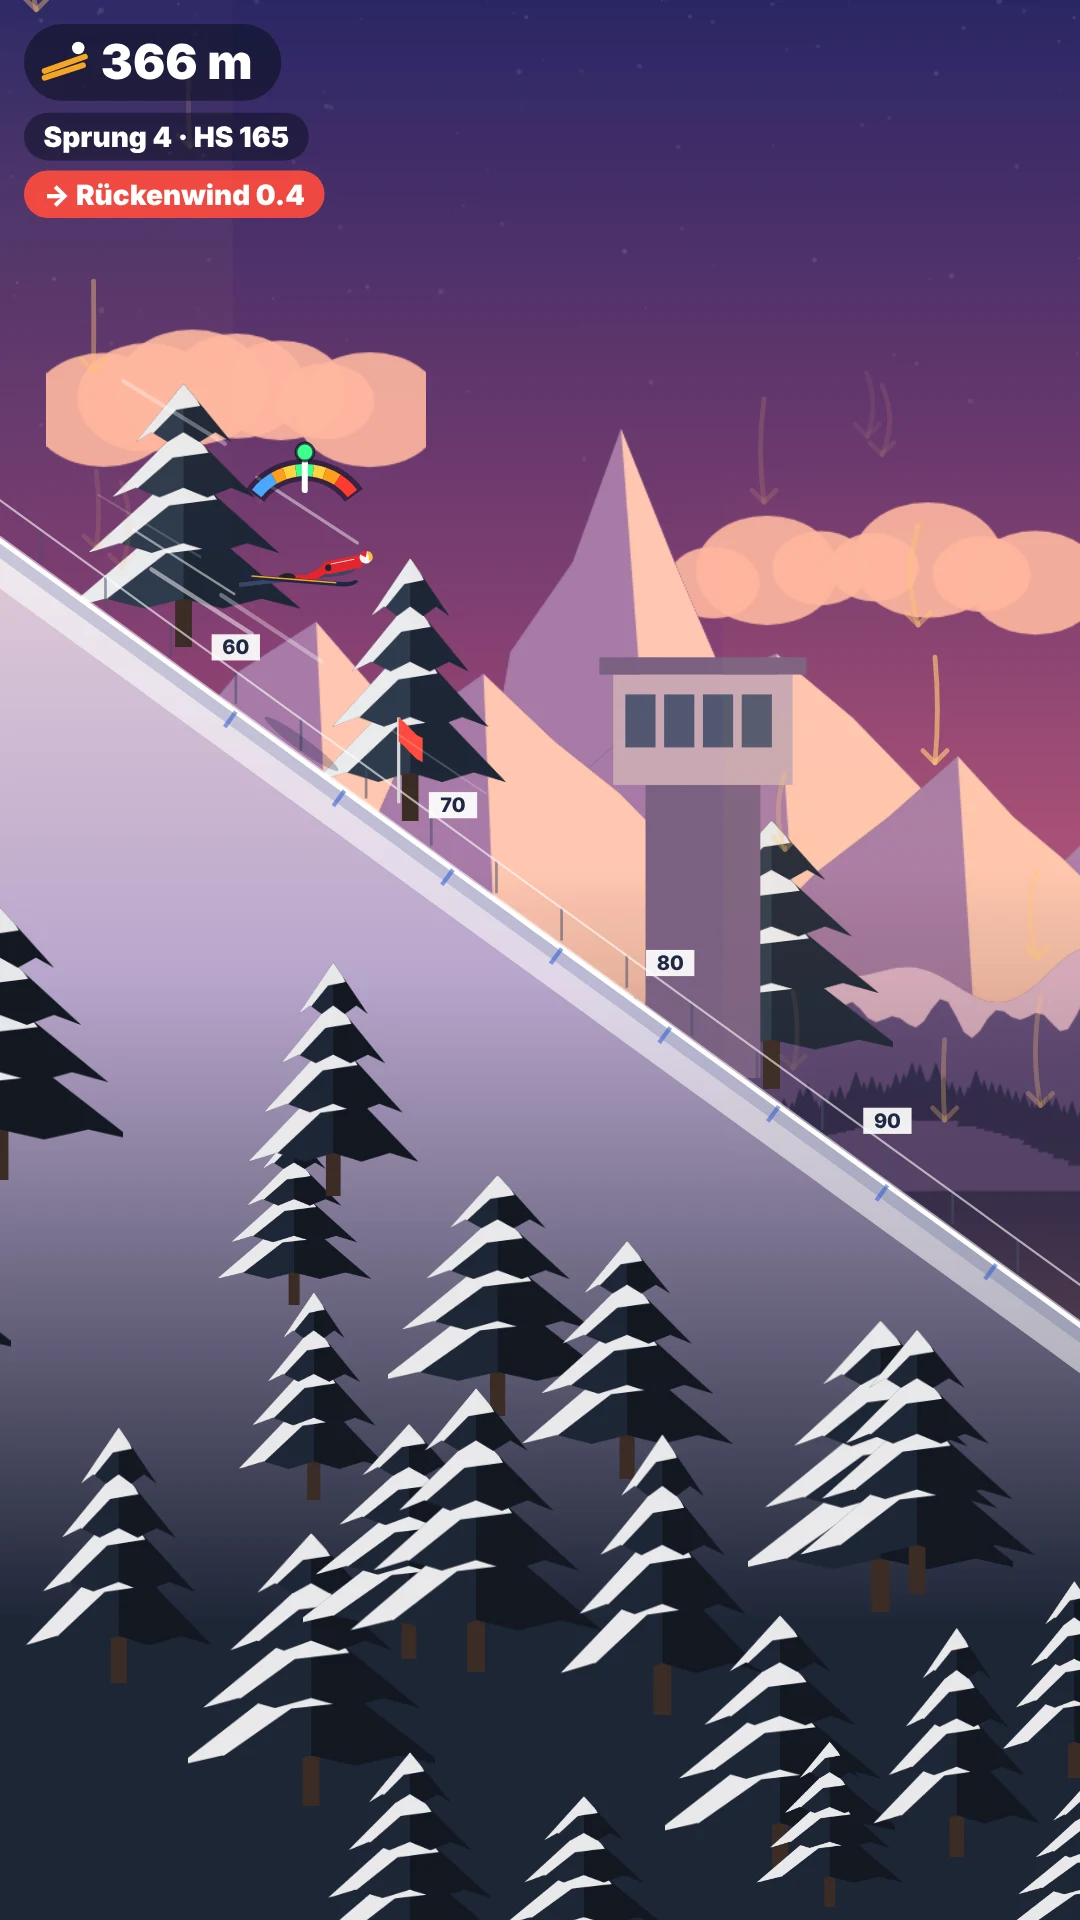
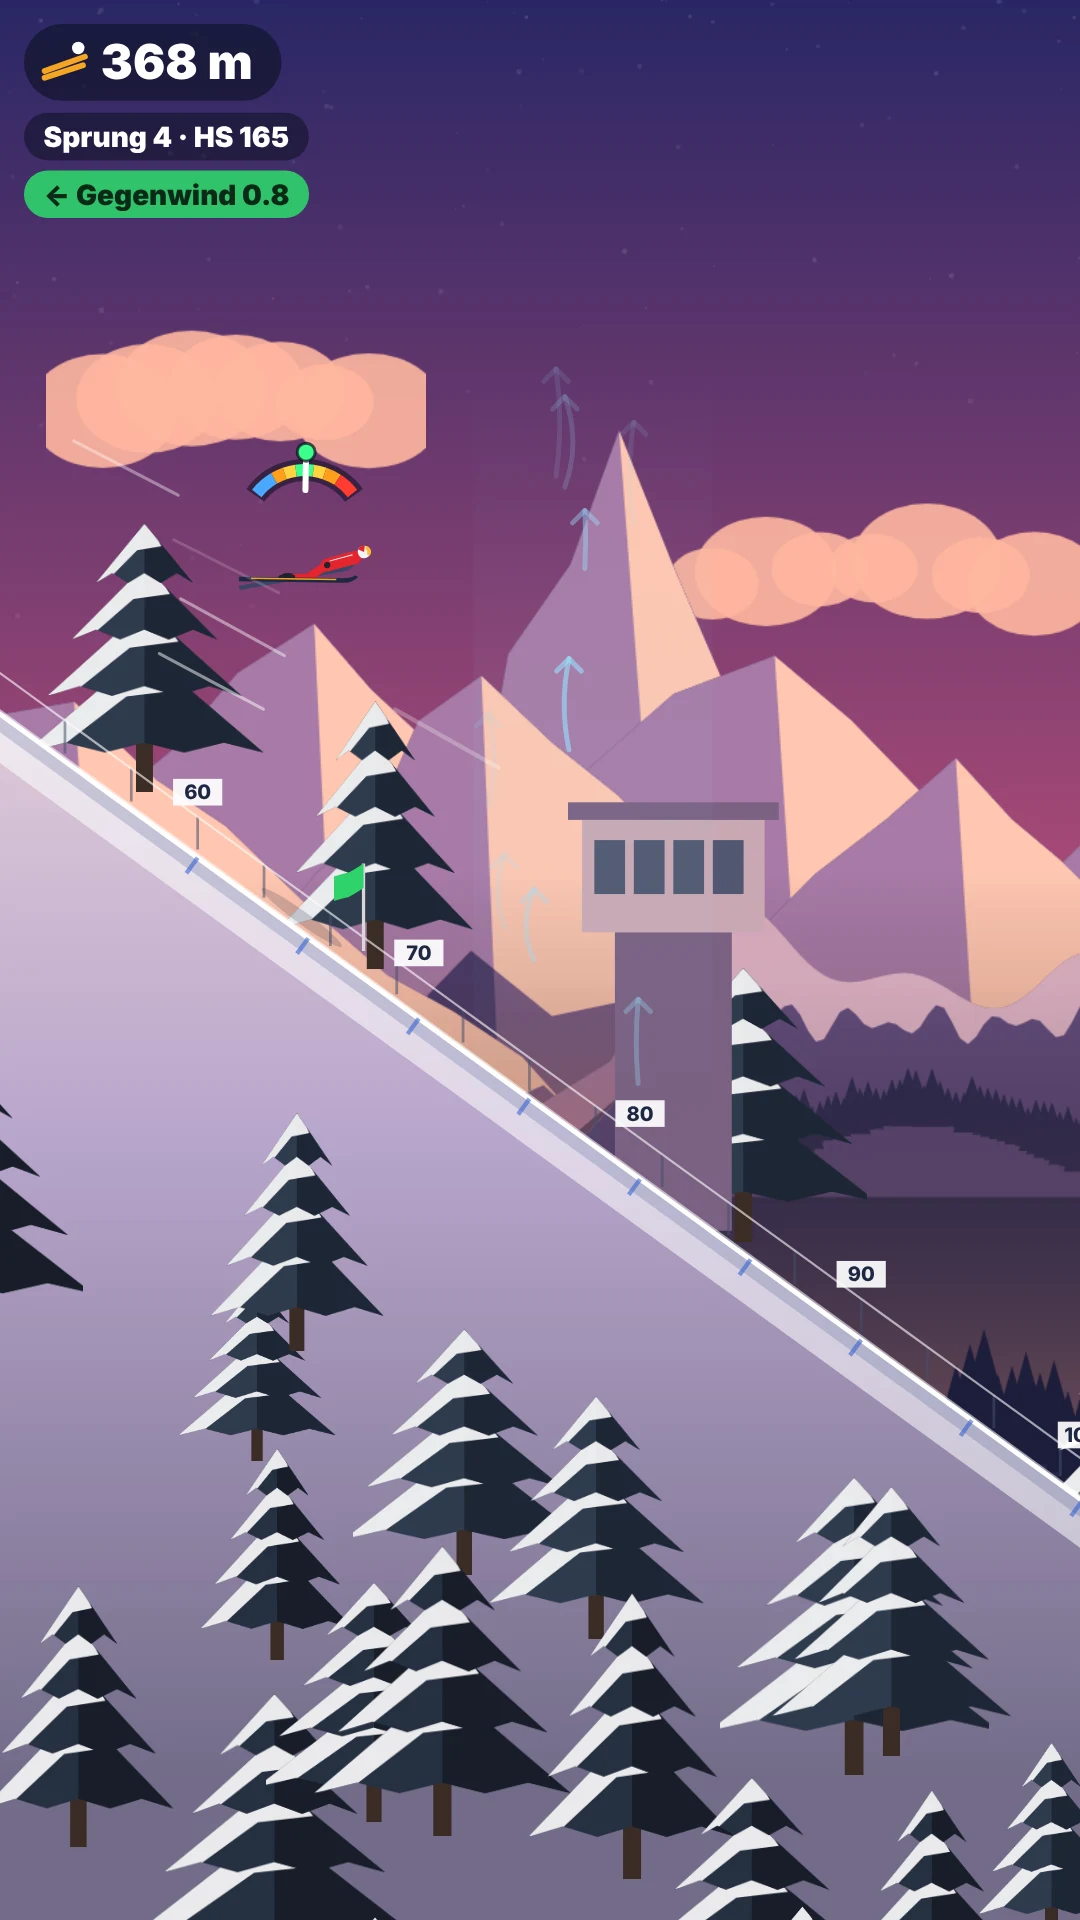
Skispringen: Feinschliff Anzeige, Wald am Hang, Zuschauen
Strömungsabriss wird gemeldet, der Bogen glüht im Gefahrenbereich, im
Anlauf steht das Tempo. Wald an der Flanke von Hang und Gelände, Turm
unter der Starthütte, Schneefall unter Flutlicht. Beim Zuschauen zeigt
die Anzeige die aufgezeichnete Zahl des Sprungs.

Claude-Session: https://claude.ai/code/session_01Psf4iZAqeQEYw64c7esvQu

diff --git a/skispringen.js b/skispringen.js
@@ -609,7 +609,7 @@
       fern: { fels: "#8b84aa", schatten: "#5f5b86", schnee: "#ffeae2", schneeSchatten: "#b7a7cd", dunst: "rgba(253, 214, 186, 0.55)" },
       mitte: { grund: "#5d6d8e", hell: "#7383a3", schnee: "#e7e2ef", wald: "#3f5468" },
       nah: { grund: "#2f4a4c", wald: "#24403f", licht: "#ffd38a" },
-      hang: ["#fff8f4", "#cfd2ec"], baum: ["#3b5b4f", "#26413a"], bau: ["#c9c3d6", "#8e88a6"], gelaende: "#e7e3f1",
+      hang: ["#fff8f4", "#cfd2ec"], baum: ["#3b5b4f", "#26413a"], bau: ["#c9c3d6", "#8e88a6"],
     },
     {
       name: "mittag",
@@ -620,7 +620,7 @@
       fern: { fels: "#7d8ea8", schatten: "#5a6a88", schnee: "#ffffff", schneeSchatten: "#bdd0ea", dunst: "rgba(214, 233, 255, 0.55)" },
       mitte: { grund: "#4f7088", hell: "#6a8ca0", schnee: "#f2f7fc", wald: "#2f5a4f" },
       nah: { grund: "#2e5a44", wald: "#1f4a37", licht: "#ffd38a" },
-      hang: ["#ffffff", "#c7d9f0"], baum: ["#2f6248", "#1d4634"], bau: ["#d6dbe3", "#8f9bab"], gelaende: "#eef4fb",
+      hang: ["#ffffff", "#c7d9f0"], baum: ["#2f6248", "#1d4634"], bau: ["#d6dbe3", "#8f9bab"],
     },
     {
       name: "nachmittag",
@@ -631,7 +631,7 @@
       fern: { fels: "#8a8aa4", schatten: "#5d6182", schnee: "#fff9ee", schneeSchatten: "#c5c7de", dunst: "rgba(250, 232, 200, 0.55)" },
       mitte: { grund: "#5a6f86", hell: "#7a8ea0", schnee: "#f5f1ea", wald: "#355749" },
       nah: { grund: "#33533f", wald: "#244533", licht: "#ffd38a" },
-      hang: ["#fffaf2", "#cbd4ea"], baum: ["#335c45", "#203f30"], bau: ["#d8d4cf", "#958f8c"], gelaende: "#f1eee8",
+      hang: ["#fffaf2", "#cbd4ea"], baum: ["#335c45", "#203f30"], bau: ["#d8d4cf", "#958f8c"],
     },
     {
       name: "abendrot",
@@ -643,7 +643,7 @@
       fern: { fels: "#7a5a86", schatten: "#4a3a6a", schnee: "#ffc6b0", schneeSchatten: "#a77aa6", dunst: "rgba(255, 160, 130, 0.45)" },
       mitte: { grund: "#4c3f6c", hell: "#6a4f7c", schnee: "#e6b9c6", wald: "#2e2a4e" },
       nah: { grund: "#28284a", wald: "#1c1d3a", licht: "#ffcf7a" },
-      hang: ["#ffe9e2", "#b9a6cc"], baum: ["#2e3a4c", "#1e2636"], bau: ["#c9a8b4", "#7a6082"], gelaende: "#e6d2dc",
+      hang: ["#ffe9e2", "#b9a6cc"], baum: ["#2e3a4c", "#1e2636"], bau: ["#c9a8b4", "#7a6082"],
     },
     {
       name: "daemmerung",
@@ -654,7 +654,7 @@
       fern: { fels: "#3f3c70", schatten: "#2a2852", schnee: "#a9a5d8", schneeSchatten: "#6e6aa6", dunst: "rgba(150, 110, 170, 0.4)" },
       mitte: { grund: "#25285a", hell: "#30336a", schnee: "#8d8cc2", wald: "#181c40" },
       nah: { grund: "#141a38", wald: "#0e1430", licht: "#ffcf7a" },
-      hang: ["#dfe5fb", "#8c93c4"], baum: ["#1d2a40", "#121c2e"], bau: ["#8e93b8", "#4e5480"], gelaende: "#a7acd2",
+      hang: ["#dfe5fb", "#8c93c4"], baum: ["#1d2a40", "#121c2e"], bau: ["#8e93b8", "#4e5480"],
       flutlicht: true,
     },
     {
@@ -666,7 +666,7 @@
       fern: { fels: "#1f2550", schatten: "#151a3c", schnee: "#7c86b8", schneeSchatten: "#4b5488", dunst: "rgba(60, 80, 150, 0.35)" },
       mitte: { grund: "#141a3c", hell: "#1b2248", schnee: "#525c90", wald: "#0e1430" },
       nah: { grund: "#0b1028", wald: "#070b1e", licht: "#ffcf7a" },
-      hang: ["#e4ebff", "#7d89bd"], baum: ["#14203a", "#0b1426"], bau: ["#7a82aa", "#3d4470"], gelaende: "#6f78a6",
+      hang: ["#e4ebff", "#7d89bd"], baum: ["#14203a", "#0b1426"], bau: ["#7a82aa", "#3d4470"],
       flutlicht: true,
     },
   ];
@@ -1102,11 +1102,19 @@
     const bis = sichtBis() + 20;
     const tief = bildY(sch.ende.y - 400);
 
+    // Hang und Gelände teilen einen Verlauf – an der Kante keine Naht.
+    const h = sch.hang;
+    const ds = h[1].s - h[0].s;
+    const schritt = Math.max(1, Math.floor(2.5 / (ds * z)));
+    const i0 = clamp(Math.floor(hangBei(sch, Math.max(0, von)).s / ds) - 1, 0, h.length - 2) || 0;
+    const i1 = clamp(Math.ceil(hangBei(sch, Math.max(0, bis)).s / ds) + 1, i0 + 1, h.length - 1) || h.length - 1;
+    const oberkante = Math.min(bildY(h[i0].y), bildY(h[i1].y));
+    const verlauf = g.createLinearGradient(0, oberkante, 0, oberkante + Math.max(80, view.cssH * 0.75));
+    verlauf.addColorStop(0, T.hang[0]);
+    verlauf.addColorStop(0.55, T.hang[1]);
+    verlauf.addColorStop(1, mische(T.hang[1], T.baum[1], 0.45));
     // Das Gelände hinter und unter dem Anlauf: ein verschneiter Waldhang.
-    const gel = g.createLinearGradient(0, bildY(gelaendeY(sch, -sch.L)), 0, bildY(-sch.h0 - 30 * sch.f));
-    gel.addColorStop(0, T.gelaende);
-    gel.addColorStop(1, T.hang[1]);
-    g.fillStyle = gel;
+    g.fillStyle = verlauf;
     g.beginPath();
     const links = Math.min(von, -sch.L * 1.6);
     g.moveTo(bildX(links), bildY(gelaendeY(sch, links)));
@@ -1136,16 +1144,6 @@
     zeichneFahnen(sch);
 
     // Der Aufsprunghang.
-    const h = sch.hang;
-    const ds = h[1].s - h[0].s;
-    const schritt = Math.max(1, Math.floor(2.5 / (ds * z)));
-    const i0 = clamp(Math.floor(hangBei(sch, Math.max(0, von)).s / ds) - 1, 0, h.length - 2) || 0;
-    const i1 = clamp(Math.ceil(hangBei(sch, Math.max(0, bis)).s / ds) + 1, i0 + 1, h.length - 1) || h.length - 1;
-    const oberkante = Math.min(bildY(h[i0].y), bildY(h[i1].y));
-    const verlauf = g.createLinearGradient(0, oberkante, 0, oberkante + Math.max(80, view.cssH * 0.75));
-    verlauf.addColorStop(0, T.hang[0]);
-    verlauf.addColorStop(0.55, T.hang[1]);
-    verlauf.addColorStop(1, mische(T.hang[1], T.baum[1], 0.45));
     g.fillStyle = verlauf;
     g.beginPath();
     g.moveTo(bildX(h[i0].x), tief);
@@ -1197,12 +1195,13 @@
     const wf = Math.sqrt(sch.f);
     const abst = 3.4 * wf;
     const unterkante = view.cssH + 20;
-    for (let n = Math.floor(Math.max(1, von) / abst); n <= Math.ceil(bis / abst); n += 1) {
+    for (let n = Math.floor(Math.max(-sch.L * 1.6, von) / abst); n <= Math.ceil(bis / abst); n += 1) {
       for (let reihe = 0; reihe < 3; reihe += 1) {
         const h = (k) => hash01(n * 3.73 + reihe * 17.1 + k * 2.17 + sch.n);
         const x = (n + h(1) * 0.9) * abst;
-        if (x < 4 || h(2) < 0.25) continue;
-        const flaeche = hangBei(sch, x).y;
+        if ((x > -3 && x < 4) || h(2) < 0.25) continue;
+        // Unter dem Anlauf steht der Wald im Gelände, sonst am Hang.
+        const flaeche = x < 0 ? gelaendeY(sch, x) : hangBei(sch, x).y;
         const tief = (9 + reihe * 9 + h(3) * 7) * wf;
         const hoehe = (5 + h(4) * 4) * wf;
         const fuss = flaeche - tief;
